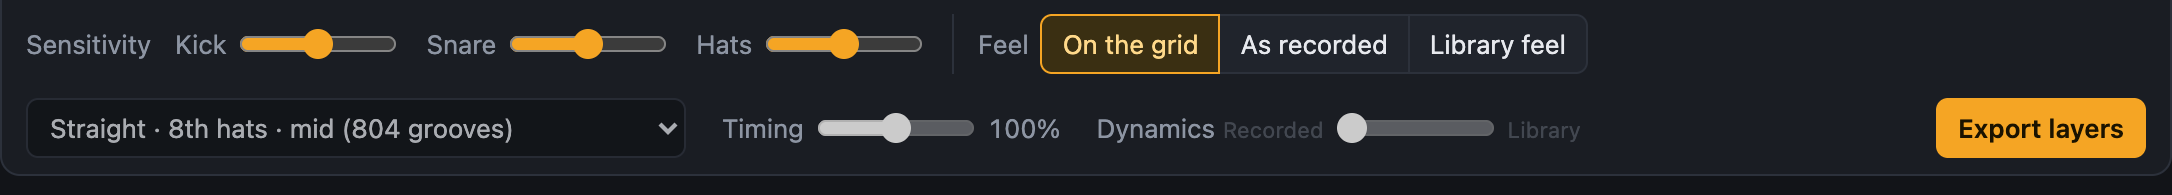
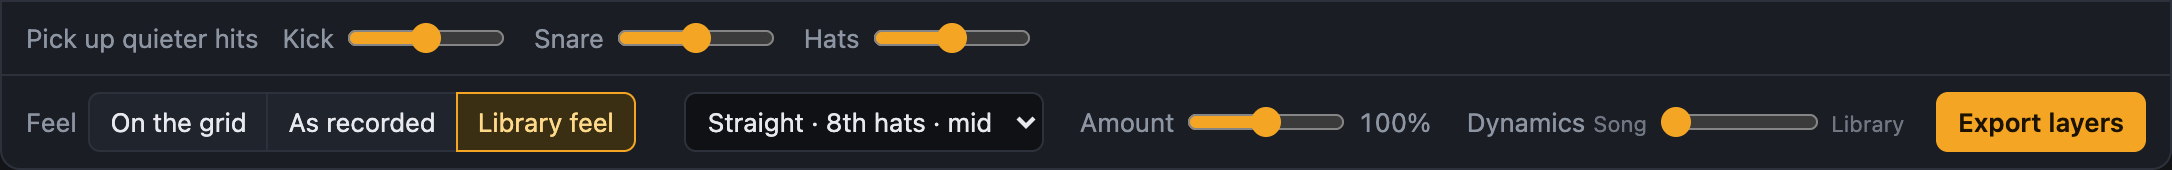
Fix late kicks in As recorded; smoother looping and a simpler feel row
- Detector: keep a kick's attack when a faint tick precedes it, and fold
  the low swell after a kick into that kick instead of a second hit.
- Loop keeps playing while handles, tempo or bars change.
- Click the waveform and press Space to play from anywhere; Space loops
  only when the playhead is on the selected section.
- Song is switched on if nothing was audible at load.
- Bottom toolbar split in two rows; feel controls shown only when used.

diff --git a/app/static/app.js b/app/static/app.js
@@ -268,6 +268,7 @@ function addSection(start, end) {
   S.sections.push(sec);
   S.sections.sort((a, b) => a.start - b.start);
   S.sel = sec.id;
+  engine.cursor = sec.start;
   return sec;
 }
 
@@ -283,6 +284,8 @@ function select(id) {
   if (S.sel === id) return;
   if (engine.mode === 'loop') engine.stop();
   S.sel = id;
+  const sec = sel();
+  if (sec) engine.cursor = sec.start;
   renderAll(); save();
 }
 
@@ -501,13 +504,21 @@ function loopSpec(sec) {
     beats: () => { const out = [], m = meterOf(g); for (let i = 0; i < g.bars * m.beats; i++) out.push({ sec: i * b, accent: i % m.beats === 0 }); return out; },
   };
 }
-function playLoop() {
+function playLoop(from) {
   const sec = sel();
   if (!sec || !engine.buffers.song) return;
-  engine.playLoop(loopSpec(sec));
+  engine.playLoop(loopSpec(sec), from);
+  engine.cursor = sec.start;  // so Space loops this section again after a stop
   syncTransport(); tickFrame();
 }
-function restartLoop() { if (engine.mode === 'loop') playLoop(); }
+// Carry a change to the section into a loop that is playing, without starting it over.
+function restartLoop() { const sec = sel(); if (engine.mode === 'loop' && sec) engine.updateLoop(loopSpec(sec)); }
+// Is the playhead resting on the selected section? Then Space loops it; otherwise Space
+// plays the song from the playhead, so any part of the song can be heard before marking it.
+function cursorInSel() {
+  const sec = sel();
+  return !!sec && engine.cursor >= sec.start - 0.05 && engine.cursor <= sec.end + 0.05;
+}
 function playSong() {
   if (!engine.buffers.song) return;
   engine.playSong(clamp(engine.cursor, 0, S.song.duration - 0.05));
@@ -658,12 +669,14 @@ function bindOverview() {
       if (d.kind === 'left') { const k = clamp(Math.round(dt / bar), -16 + o.grid.bars, o.grid.bars - 1); g.t0 = o.grid.t0 + k * bar; g.bars = o.grid.bars - k; if (g.t0 < 0) { g.t0 = o.grid.t0; g.bars = o.grid.bars; } }
       syncSpan(sec); requantize(sec);
       renderSections(); syncToolbar(); drawEditor();
+      if (d.kind !== 'move') restartLoop();
     } else {
       const len = o.end - o.start;
       if (d.kind === 'move') { sec.start = clamp(o.start + dt, 0, S.song.duration - len); sec.end = sec.start + len; }
       if (d.kind === 'left') sec.start = clamp(snapBeat(t, w, e.altKey), 0, sec.end - 0.5);
       if (d.kind === 'right') sec.end = clamp(snapBeat(t, w, e.altKey), sec.start + 0.5, S.song.duration);
       renderSections();
+      if (d.kind !== 'move') restartLoop();
     }
     drawOverview();
   });
@@ -677,7 +690,10 @@ function bindOverview() {
       const was = engine.mode;
       if (was) engine.stop();
       engine.cursor = clamp(d.t0, 0, S.song.duration);
-      if (was === 'song') playSong();
+      // While playing, a click moves the sound there: inside the section it keeps looping,
+      // anywhere else it plays the song on from that point.
+      if (was === 'loop' && cursorInSel()) playLoop(engine.cursor);
+      else if (was) playSong();
       drawTops();
       return;
     }
@@ -802,6 +818,11 @@ function syncToolbar() {
   $('#fTiming').value = sec.feel.timing; $('#fVel').value = sec.feel.vel;
   $('#fTimingV').textContent = Math.round(sec.feel.timing * 100) + '%';
   $('#fVelWrap').classList.toggle('off', sec.feel.mode !== 'ni');
+  // Only the controls that do something in this mode are shown.
+  $('#feelPick').hidden = sec.feel.mode !== 'ni';
+  $('#fTimingWrap').hidden = sec.feel.mode === 'quant';
+  $('#fVelWrap').hidden = sec.feel.mode !== 'ni';
+  $('#feelNote').textContent = { quant: 'Every hit exactly on the grid.', played: 'Timing as the drummer on the record played it.', ni: '' }[sec.feel.mode] || '';
   $('#undo').disabled = !S.undo.length;
   const mp = sec.map || {};
   $$('#backbeat button').forEach((b) => b.classList.toggle('on', +b.dataset.p === (mp[38] || 38)));
@@ -1101,7 +1122,7 @@ function bindGlobal() {
     if ((e.metaKey || e.ctrlKey) && e.key.toLowerCase() === 'z' && tag !== 'INPUT') { e.preventDefault(); undo(); return; }
     if (tag === 'INPUT' && e.target.type !== 'range' || tag === 'SELECT' || e.metaKey || e.ctrlKey) return;
     const k = e.key.toLowerCase();
-    if (e.code === 'Space') { e.preventDefault(); toggle(e.shiftKey || !sel() ? 'song' : 'loop'); }
+    if (e.code === 'Space') { e.preventDefault(); if (engine.mode) engine.stop(); else toggle(e.shiftKey || !cursorInSel() ? 'song' : 'loop'); }
     else if (k === 's') { mix.song.on = !mix.song.on; applyMix(); }
     else if (k === 'd') { mix.drums.on = !mix.drums.on; applyMix(); }
     else if (k === 'm') { mix.midi.on = !mix.midi.on; applyMix(); }
@@ -1115,6 +1136,8 @@ function bindGlobal() {
 }
 
 try { Object.assign(mix, JSON.parse(localStorage.getItem('gw-mix') || '{}')); } catch (e) { /* defaults */ }
+// Never start silent: with nothing switched on, a new visit would play no sound at all.
+if (!mix.song.on && !mix.drums.on && !mix.midi.on) mix.song.on = true;
 window.GW = { S, engine };
 // ------------------------------------------------------------------ settings
 

diff --git a/app/static/index.html b/app/static/index.html
@@ -49,7 +49,7 @@
       <section class="panel">
         <div class="panel-head">
           <div class="label">Song</div>
-          <div class="hint">Drag on the waveform to mark a section. Click to move the playhead. Pinch or ⌘-scroll to zoom.</div>
+          <div class="hint">Drag on the waveform to mark a section. Click anywhere to listen from there (Space). Pinch or ⌘-scroll to zoom.</div>
           <div class="spacer"></div>
           <button id="zoomOut" title="Zoom out">−</button>
           <button id="zoomIn" title="Zoom in">+</button>
@@ -80,7 +80,7 @@
 
         <div id="edBody" hidden>
           <div class="toolbar">
-            <button id="loopBtn" class="primary" title="Loop this section (Space)">▶ Loop</button>
+            <button id="loopBtn" class="primary" title="Loop this section (Space, when the playhead is on the section)">▶ Loop</button>
             <label class="field">BPM <input id="bpm" type="number" step="0.01" min="30" max="400"></label>
             <span class="group"><button id="half" title="Same notes counted at half tempo">÷2</button><button id="dbl" title="Same notes counted at double tempo">×2</button></span>
             <span class="field">Bars <span class="seg" id="bars"><button data-b="1">1</button><button data-b="2">2</button><button data-b="4">4</button><button data-b="8">8</button></span></span>
@@ -112,12 +112,13 @@
           <div class="hint ed-hint">Click a cell to add or remove a hit. Drag a hit up or down for velocity. Faint dots are quieter hits the detector heard. Drag the drum waveform sideways to slide the audio under the grid.</div>
 
           <div class="toolbar lower">
-            <span class="field" title="How quiet a hit can be and still be kept">Sensitivity
+            <span class="field" title="How quiet a hit can be and still be kept. Raise a slider to bring in the faint dots for that drum.">Pick up quieter hits
               <label class="mini">Kick <input id="sKick" type="range" min="0" max="1" step="0.02"></label>
               <label class="mini">Snare <input id="sSnare" type="range" min="0" max="1" step="0.02"></label>
               <label class="mini">Hats <input id="sHat" type="range" min="0" max="1" step="0.02"></label>
             </span>
-            <span class="sep"></span>
+          </div>
+          <div class="toolbar lower">
             <span class="field">Feel
               <span class="seg" id="feelMode">
                 <button data-m="quant" title="Every hit exactly on the grid">On the grid</button>
@@ -125,10 +126,10 @@
                 <button data-m="ni" title="Timing and dynamics learned from your own library of MIDI grooves">Library feel</button>
               </span>
             </span>
+            <span class="hint" id="feelNote"></span>
             <select id="feelPick" class="wide"></select>
-            <label class="mini">Timing <input id="fTiming" type="range" min="0" max="2" step="0.05"><span id="fTimingV" class="val"></span></label>
-            <label class="mini" id="fVelWrap" title="How hard each hit is played: as on the record, as in the library groove, or a blend of the two">Dynamics <span class="end">Recorded</span><input id="fVel" type="range" min="0" max="1" step="0.05"><span class="end">Library</span></label>
-            <div class="spacer"></div>
+            <label class="mini" id="fTimingWrap" title="How much of that timing is applied: 0% is on the grid, 100% is as measured">Amount <input id="fTiming" type="range" min="0" max="2" step="0.05"><span id="fTimingV" class="val"></span></label>
+            <label class="mini" id="fVelWrap" title="How hard each hit is played: as on the record, as in the library groove, or a blend of the two">Dynamics <span class="end">Song</span><input id="fVel" type="range" min="0" max="1" step="0.05"><span class="end">Library</span></label>
             <button id="exportBtn" class="primary" title="Writes one .mid per layer, plus the full groove">Export layers</button>
           </div>
         </div>

diff --git a/app/static/audio.js b/app/static/audio.js
@@ -156,27 +156,31 @@ export class Engine {
   }
 
   // loop: { start, len, notes: () => [{sec, p, v}], beats: () => [{sec, accent}] }
-  playLoop(loop) {
+  // from: song time inside the loop to start at (default: the top of the loop).
+  playLoop(loop, from) {
     this._halt();
-    const at = this._start(loop.start, loop);
+    const offset = from != null && from >= loop.start && from < loop.start + loop.len ? from : loop.start;
+    const real = this._start(offset, loop);
     this.mode = 'loop';
-    this._t0 = at; this._loop = loop; this._sched = at;
+    this._loop = loop;
+    this._t0 = real - (offset - loop.start);  // when this pass of the loop would have begun
+    this._sched = real;
     const tick = () => {
       const now = this.ctx.currentTime;
       const horizon = now + 0.14;
       const from = Math.max(this._sched, now);
-      const len = loop.len;
+      const lp = this._loop, at = this._t0, len = lp.len;
       const k0 = Math.floor((from - at) / len) - 1;
       const k1 = Math.floor((horizon - at) / len);
-      const notes = loop.notes();
-      const beats = loop.beats();
+      const notes = lp.notes();
+      const beats = lp.beats();
       for (let k = Math.max(0, k0); k <= k1 + 1; k++) {
         const base = at + k * len;
         for (const n of notes) {
           const t = base + n.sec;
-          if (t >= from && t < horizon && t >= at - 0.001) this.hit(n.p, n.v, t);
+          if (t >= from && t < horizon) this.hit(n.p, n.v, t);
         }
-        if (k >= 0) for (const b of beats) {
+        for (const b of beats) {
           const t = base + b.sec;
           if (t >= from && t < horizon) this.hit(b.accent ? 'clickHi' : 'click', 100, t, 'click');
         }
@@ -185,6 +189,22 @@ export class Engine {
     };
     tick();
     this._timer = setInterval(tick, 25);
+  }
+
+  // Change the loop while it plays, without starting over. If the playhead is left outside
+  // the new loop, it picks up just before the new end (when the end moved in) or from the top.
+  updateLoop(loop) {
+    if (this.mode !== 'loop') return;
+    const now = this.ctx.currentTime, old = this._loop;
+    const pos = old.start + ((((now - this._t0) % old.len) + old.len) % old.len);
+    const end = loop.start + loop.len;
+    if (pos < loop.start || pos >= end - 0.05) {
+      this.playLoop(loop, pos >= end - 0.05 ? Math.max(loop.start, end - 2) : loop.start);
+      return;
+    }
+    for (const src of this.sources) { src.loopStart = loop.start; src.loopEnd = end; }
+    this._loop = loop;
+    this._t0 = now - (pos - loop.start);
   }
 
   stop(ended = false) {

diff --git a/app/static/style.css b/app/static/style.css
@@ -85,7 +85,8 @@ main { flex: 1; min-width: 0; overflow: auto; padding: 12px; }
 .group button:first-child, .seg button:first-child { border-radius: 6px 0 0 6px; margin-left: 0; }
 .group button:last-child, .seg button:last-child { border-radius: 0 6px 6px 0; }
 .seg button.on { background: #3a2f12; border-color: var(--accent); color: #ffd98a; position: relative; z-index: 1; }
-select.wide { max-width: 330px; min-width: 200px; }
+select.wide { max-width: 180px; min-width: 150px; }
+#exportBtn { margin-left: auto; }
 .ed-hint { padding: 6px 12px; }
 
 .veil { position: fixed; inset: 0; background: rgba(245,165,36,.12); border: 3px dashed var(--accent); display: grid; place-items: center; font-size: 24px; font-weight: 600; z-index: 20; pointer-events: none; }

diff --git a/app/analysis.py b/app/analysis.py
@@ -175,16 +175,26 @@ def detect(feat, t0, t1, norm=None):
         f0, f1 = max(0, c - 5), min(n, c + 6)
         t = (f0 + int(np.argmax(feat["all"][f0:f1]))) * FRAME
         if raw and t - raw[-1][0] < 0.02:
+            # Two groups found the same attack: it is one hit. Keep the bigger reading of each
+            # band and the time of the stronger one, so a faint tick cannot displace a kick.
+            r = raw[-1]
+            keep_t = r[0] if max(r[1:]) >= max(low, body, crack, air) else t
+            raw[-1] = (keep_t, max(r[1], low), max(r[2], body), max(r[3], crack), max(r[4], air))
             continue
         # The drum head keeps moving after a kick: a second swell of sub with no attack
         # in any other band is the tail of that kick, not another hit.
-        if max(body, crack, air) < 0.08:
+        other = max(body, crack, air)
+        head = None
+        if other < max(0.08, 0.3 * low):
             head = next((i for i in range(len(raw) - 1, max(-1, len(raw) - 4), -1) if t - raw[i][0] < 0.14 and raw[i][1] >= 0.3 * low), None)
-            if head is not None:
-                # Keep the time of the attack; the swell only tells us how big the kick was.
-                r = raw[head]
-                raw[head] = (r[0], max(r[1], low), r[2], r[3], r[4])
-                continue
+        elif raw and t - raw[-1][0] < 0.09 and raw[-1][1] >= 0.3 * low and other < 0.5 * low and other < 0.5 * max(raw[-1][2], raw[-1][3]):
+            # Right behind a kick's attack, mostly sub, and far less attack than that kick had.
+            head = len(raw) - 1
+        if head is not None:
+            # Keep the time of the attack; the swell only tells us how big the kick was.
+            r = raw[head]
+            raw[head] = (r[0], max(r[1], low), r[2], r[3], r[4])
+            continue
         raw.append((t, low, body, crack, air))
 
     inside = [r for r in raw if not norm or norm[0] - 0.05 <= r[0] <= norm[1]] or raw

diff --git a/README.md b/README.md
@@ -19,6 +19,7 @@ samples and MIDI groove library. None of that is included here.
 
 Opening a song separates the drums from the rest of the mix. When the badge says "Drums
 separated", drag across the part you want on the waveform, for example four bars of the verse.
+To listen first, click anywhere on the waveform and press Space: it plays from there.
 
 ![A song's waveform with a section marked on it, listed below as "Verse"](docs/mark-section.png)
 
@@ -27,13 +28,14 @@ separated", drag across the part you want on the waveform, for example four bars
 Extract finds the tempo and the downbeat, snaps the section to whole bars, and reads the kick,
 snare and hats from the drum stem. The hits appear on a grid directly under the drum waveform,
 so you can see whether each one lines up with what was played. Press Space to loop the section
-and hear the MIDI against the song, the drum stem, or both.
+and hear the MIDI against the song, the drum stem, or both. The loop keeps playing while you
+drag the section's handles or change the tempo.
 
 If something is off, fix it there:
 
 - Click a cell to add or remove a hit, and drag a hit up or down to change how hard it is played.
-- Faint dots are quieter hits the detector heard but left out. The Sensitivity sliders bring
-  them in or drop more.
+- Faint dots are quieter hits the detector heard but left out. The "Pick up quieter hits"
+  sliders bring them in or drop more.
 - BPM, ÷2 and ×2, Bars, Meter, Grid and the Beat 1 buttons correct a wrong tempo or bar line.
 - "Backbeat as" and "Hats as" choose which drum plays the snare and hi-hat hits: snare or rim
   click, hi-hat or shaker.
@@ -56,7 +58,7 @@ There are three ways the pattern can play:
 
 Export writes one `.mid` per layer plus the full groove into `exports/<Song>/`.
 
-![The sensitivity sliders, the feel choices and the Export layers button](docs/feel-export.png)
+![The sliders for picking up quieter hits, the feel choices and the Export layers button](docs/feel-export.png)
 
 ## Install
 
@@ -111,8 +113,8 @@ exported.
 
 | Key | Does |
 | --- | --- |
-| Space | Loop the selected section |
-| Shift+Space | Play the whole song |
+| Space | Loop the selected section. If you clicked somewhere outside it, play the song from there |
+| Shift+Space | Play the song from the playhead |
 | S, D, M, C | Turn the song, drum stem, MIDI and click on or off |
 | E | Extract the selected section |
 | 1 to 9, 0 | Pick a layer, or the full groove |
